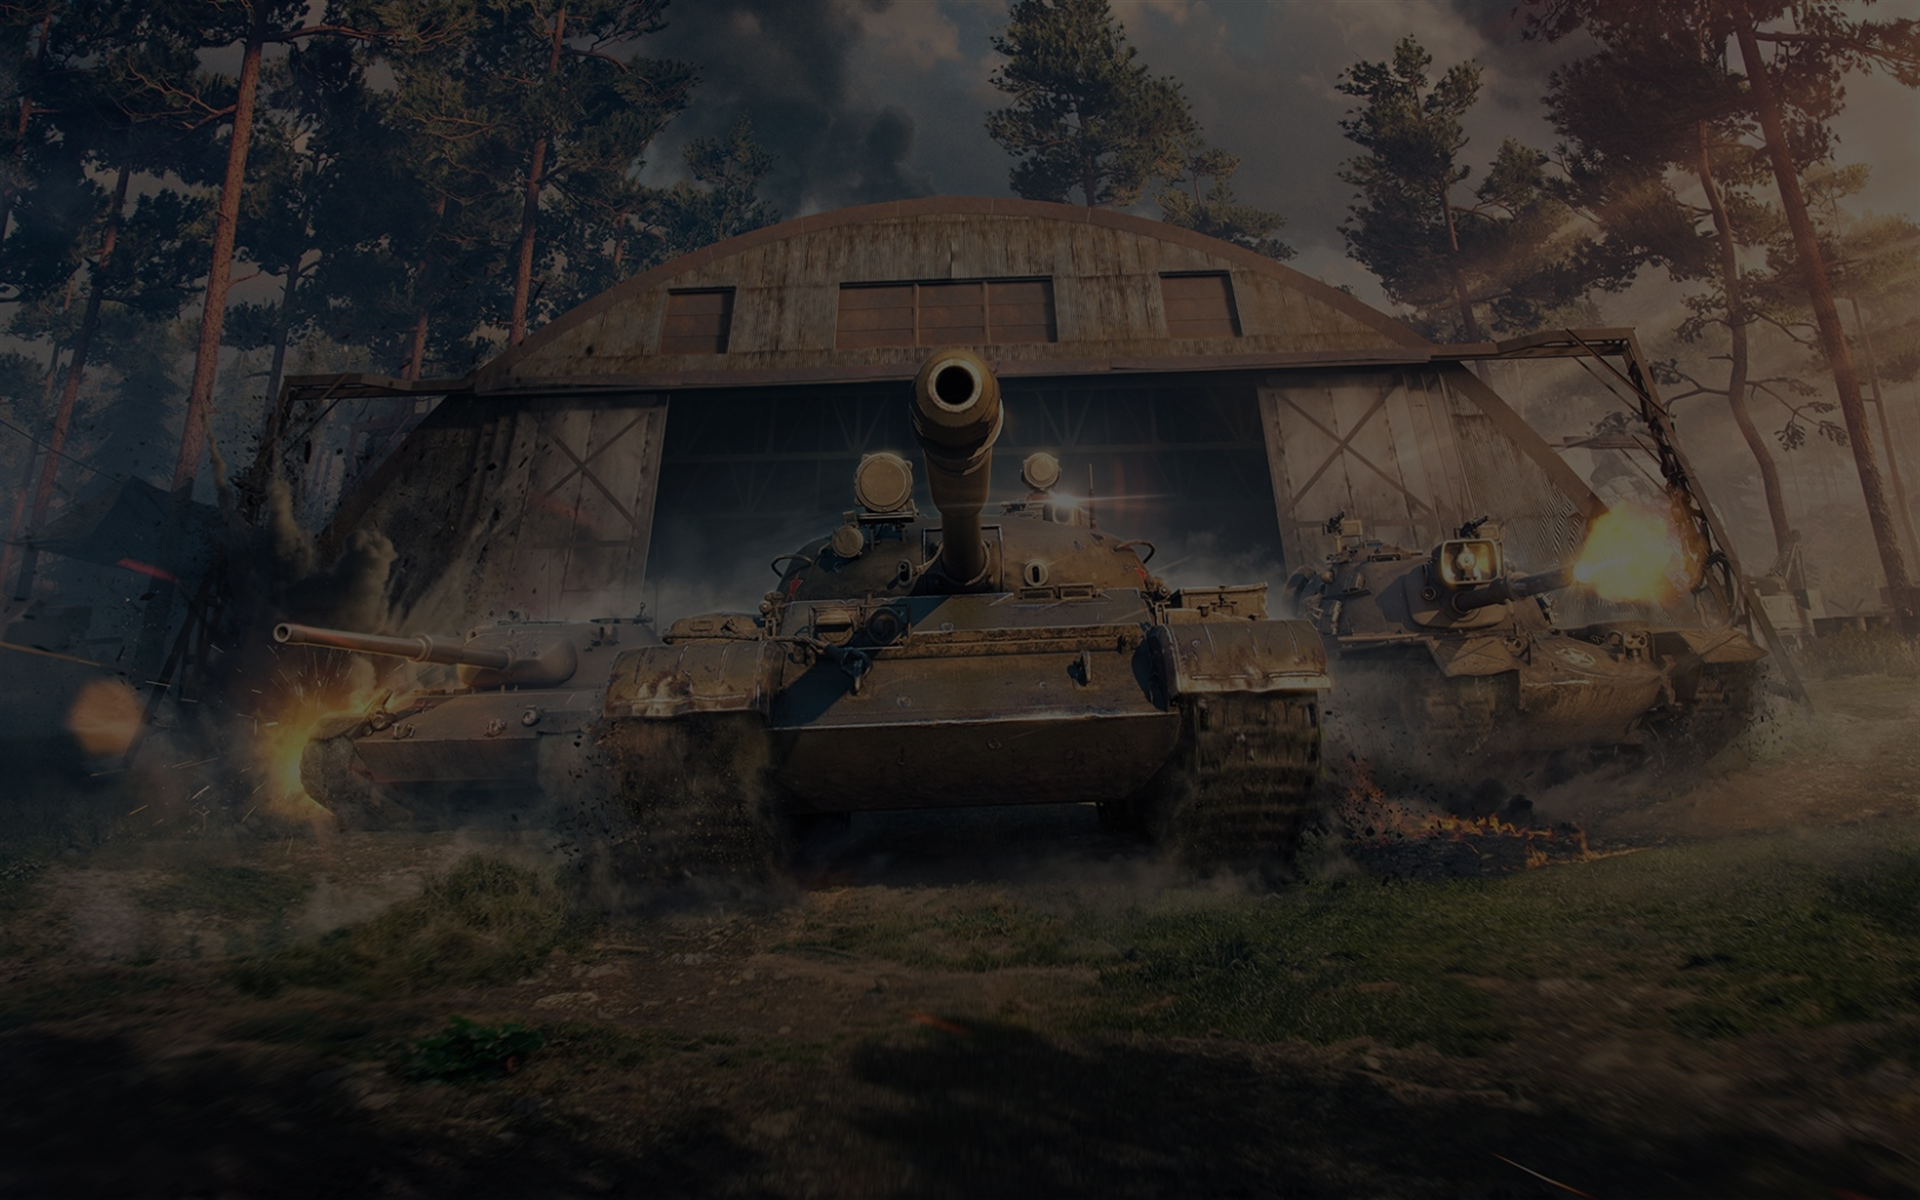
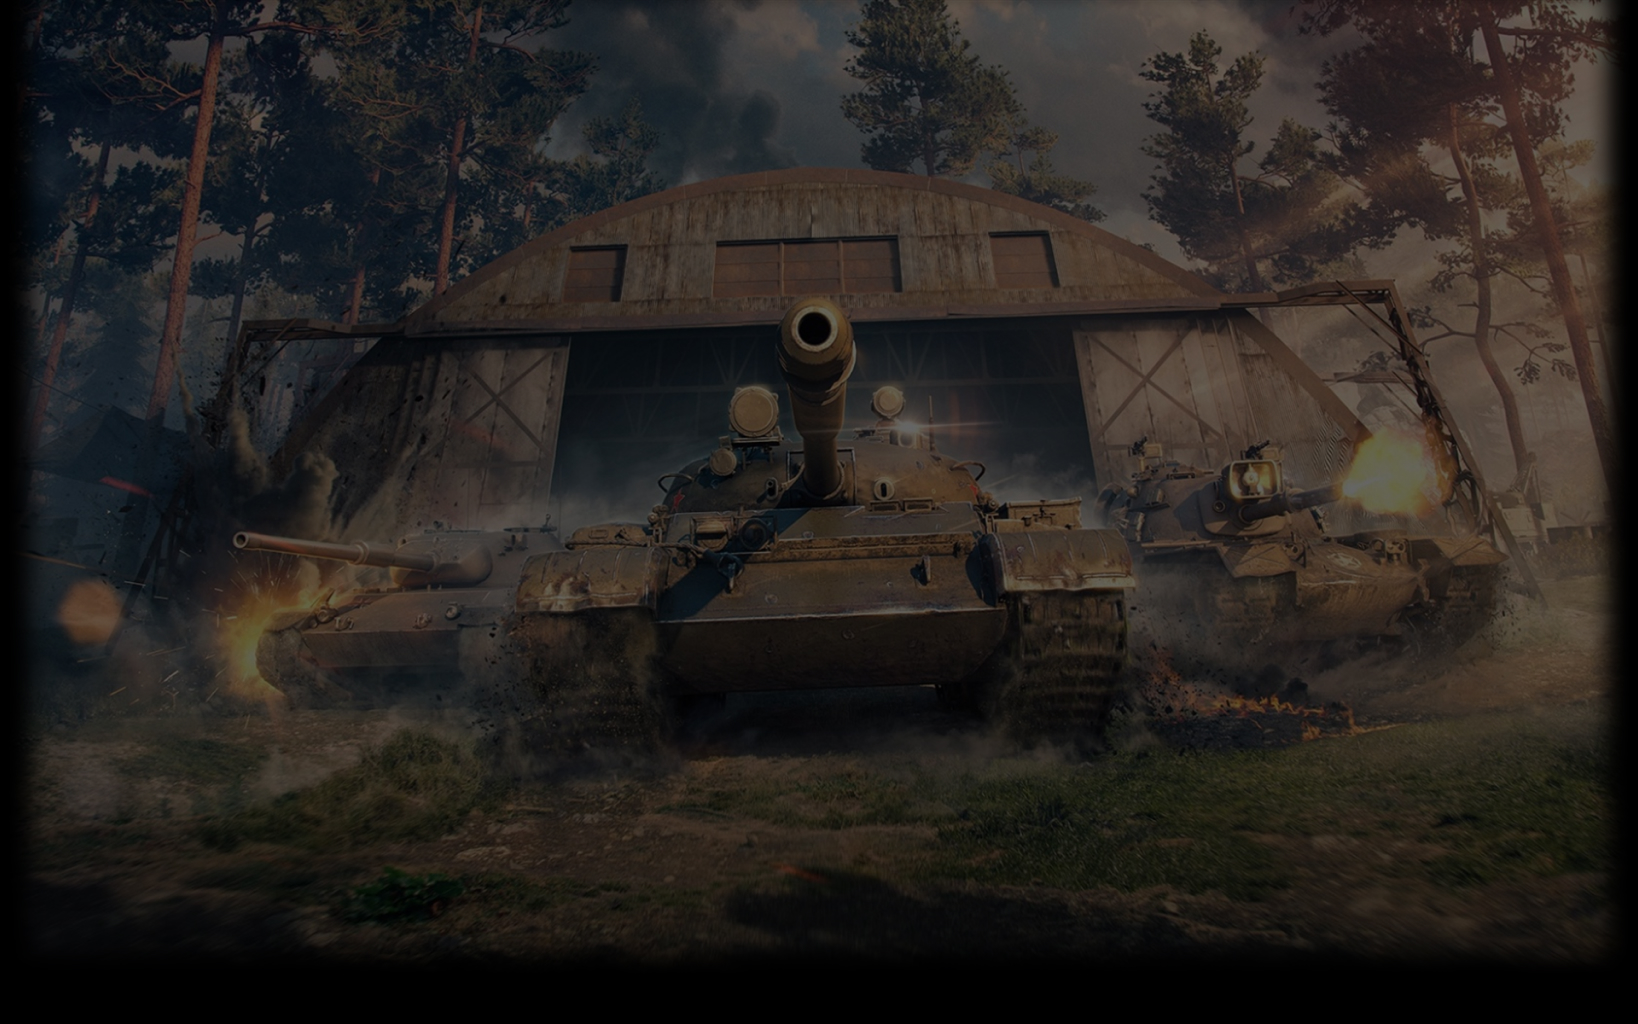
123

diff --git a/src/components/tank-item/tank-item.jsx b/src/components/tank-item/tank-item.jsx
@@ -16,46 +16,48 @@ const TankItem = ({tank}) =>{
 
   return (
     <li className="tank-list__item tank-item">
-      <div className="tank-item__nation">
-        {nation}
-      </div>
-      <div className="tank-item__type">
-        {type}
-      </div>
-      <div className="tank-item__lvl">
-        {lvl}
-      </div>
-      <p className="tank-item__name">
-        {name}
-      </p>
-      <div className="tank-item__equipment">
-        {equipment.map((item, index)=>{
-          return (
-            <EquipmentList
-              key={`standart-list-${index}`}
-              type="standard"
-              list={item}
-            />
-          );
-        })}
+      <div className="tank-item__wrapper container">
+        <div className="tank-item__nation">
+          {nation}
+        </div>
+        <div className="tank-item__type">
+          {type}
+        </div>
+        <div className="tank-item__lvl">
+          {lvl}
+        </div>
+        <p className="tank-item__name">
+          {name}
+        </p>
+        <div className="tank-item__equipment">
+          {equipment.map((item, index) => {
+            return (
+              <EquipmentList
+                key={`standart-list-${index}`}
+                type="standard"
+                list={item}
+              />
+            );
+          })}
 
-      </div>
-      <div className="tank-item__directive">
-        <EquipmentList
-          type="directives"
-          list={directives}
-        />
-      </div>
-      <div className="tank-item__special-equipment">
-        {specialEquipment.map((item, index) =>{
-          return (
-            <EquipmentList
-              key={`special-list-${index}`}
-              type="special"
-              list={item}
-            />
-          );
-        })}
+        </div>
+        <div className="tank-item__directive">
+          <EquipmentList
+            type="directives"
+            list={directives}
+          />
+        </div>
+        <div className="tank-item__special-equipment">
+          {specialEquipment.map((item, index) => {
+            return (
+              <EquipmentList
+                key={`special-list-${index}`}
+                type="special"
+                list={item}
+              />
+            );
+          })}
+        </div>
       </div>
     </li>
   );

diff --git a/public/index.html b/public/index.html
@@ -11,6 +11,33 @@
 </head>
 
 <body>
+  <div style="display: none;">
+  </div>
+  <svg width="0" height="0" class="hidden">
+    <symbol xmlns="http://www.w3.org/2000/svg" viewBox="0 0 48 48" id="icon-great-britain">
+      <path fill="#ECEFF1" d="M16 9h16v30H16z"></path>
+      <path fill="#FF3D00" d="M32 9h14v30H32z"></path>
+      <path fill="#689F38" d="M2 9h14v30H2z"></path>
+    </symbol>
+    <symbol xmlns="http://www.w3.org/2000/svg" viewBox="0 0 48 48" id="icon-italy">
+      <path fill="#eceff1" d="M2 9h44v30H2z"></path>
+      <path fill="#d50000" d="M24 15a9 9 0 100 18 9 9 0 100-18z"></path>
+    </symbol>
+    <symbol xmlns="http://www.w3.org/2000/svg" viewBox="0 0 48 48" id="icon-japan">
+      <path fill="#F44336" d="M2 24h44v15H2z"></path>
+      <path fill="#ECEFF1" d="M2 9h44v15H2z"></path>
+    </symbol>
+    <symbol xmlns="http://www.w3.org/2000/svg" viewBox="0 0 48 48" id="icon-poland">
+      <path fill="#1976D2" d="M2 9h44v30H2z"></path>
+      <path fill="#FFC107" d="M2 21h44v6H2z"></path>
+      <path fill="#FFC107" d="M16 9h6v30h-6z"></path>
+    </symbol>
+    <symbol xmlns="http://www.w3.org/2000/svg" viewBox="0 0 48 48" id="icon-sweden">
+      <path fill="#ECEFF1" d="M16 9h16v30H16z"></path>
+      <path fill="#FF3D00" d="M32 9h14v30H32z"></path>
+      <path fill="#3F51B5" d="M2 9h14v30H2z"></path>
+    </symbol>
+  </svg>
   <div id="root"></div>
   <script src="./bundle.js"></script>
 </body>

diff --git a/src/components/app/app.jsx b/src/components/app/app.jsx
@@ -1,16 +1,19 @@
 import React, {Fragment} from "react";
 import Filter from "../filter/filter";
 import TanksList from "../tanks-list/tanks-list";
+import PageHeader from "../page-header/page-header";
+import PageFooter from "../page-footer/page-footer";
+
 const App = () => {
   return (
     <Fragment>
-      <header className="page-header"></header>
-      <main className="container">
+      <PageHeader />
+      <main className="">
         <h1 className="page-title">Сборки оборудования 2.0</h1>
         <Filter/>
         <TanksList />
       </main>
-      <footer className="page-footer"></footer>
+      <PageFooter />
     </Fragment>
   );
 };

diff --git a/src/sass/blocks/tank-item.scss b/src/sass/blocks/tank-item.scss
@@ -1,10 +1,4 @@
 .tank-item {
-  display: flex;
-  justify-content: space-around;
-
-  padding-top: 5px;
-  padding-bottom: 5px;
-
   &--premium {
     color: #ffd700;
   }
@@ -15,6 +9,13 @@
   }
 }
 
+.tank-item__wrapper {
+  display: flex;
+  justify-content: space-around;
+
+  padding-top: 5px;
+  padding-bottom: 5px;
+}
 
 .tank-item__type {
   display: flex;

diff --git a/src/components/filter/filter.jsx b/src/components/filter/filter.jsx
@@ -5,7 +5,7 @@ import {listData} from "../../const";
 const Filter = () => {
 
   return (
-    <section className="filter">
+    <section className="filter container">
       <h2 className="visually-hidden">Фильтр</h2>
       <form action="" method="get" className="filter__form">
         <FilterSection title="Нация" list={listData.nation}/>

diff --git a/src/sass/style.scss b/src/sass/style.scss
@@ -21,7 +21,8 @@ body {
   background-repeat: no-repeat;
   background-attachment: fixed;
   background-position: 50% 0%;
-  background-size: cover;
+  // background-size: cover;
+  background-size: 1638px 1024px;
 
   font-family: "Roboto", "Arial", sans-serif;
   font-size: 14px;

diff --git a/src/components/page-footer/page-footer.jsx b/src/components/page-footer/page-footer.jsx
@@ -1,0 +1,9 @@
+import React from "react";
+
+const PageFooter = () => {
+  return (
+    <footer className="page-footer"></footer>
+  );
+};
+
+export default PageFooter;

diff --git a/src/components/page-header/page-header.jsx b/src/components/page-header/page-header.jsx
@@ -1,0 +1,9 @@
+import React from "react";
+
+const PageHeader = () => {
+  return (
+    <header className="page-header"></header>
+  );
+};
+
+export default PageHeader;

diff --git a/src/sass/blocks/page-header.scss b/src/sass/blocks/page-header.scss
@@ -1,3 +1,3 @@
 .page-header {
-  height: 300px;
+  height: 234px;
 }
